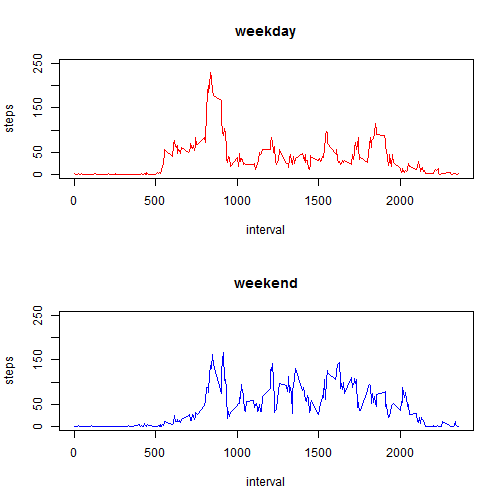
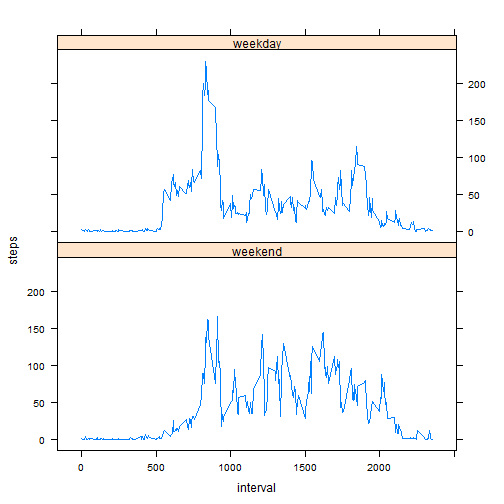
update RMD file

diff --git a/PA1_template.html b/PA1_template.html
@@ -256,7 +256,7 @@ hljs.initHighlightingOnLoad();
 <li>Calculate and report the total number of missing values in the dataset (i.e. the total number of rows with NAs)</li>
 </ul>
 
-<pre><code class="r">                sum(is.na(activity$steps)) 
+<pre><code class="r">        sum(is.na(activity$steps)) 
 </code></pre>
 
 <pre><code>## [1] 2304
@@ -341,24 +341,23 @@ This represents a 15% increase of total daily steps.</li>
         if ((isWeekDay[i]==&quot;Saturday&quot;)|(isWeekDay[i]==&quot;Sunday&quot;))
                 activity$weekday[i]&lt;-&quot;weekend&quot;
                 else activity$weekday[i]&lt;-&quot;weekday&quot;}
-        activity$weekday&lt;-as.factor(activity$weekday)
+        activity$weekday&lt;-factor(activity$weekday)
 </code></pre>
 
 <ul>
 <li>Make a panel plot containing a time series plot (i.e. type = &ldquo;l&rdquo;) of the 5-minute interval (x-axis) and the average number of steps taken, averaged across all weekday days or weekend days (y-axis). </li>
 </ul>
 
-<pre><code class="r">        intervalSteps2&lt;-tapply(activity$steps,list(activity$interval,activity$weekday),mean)
-        par(mfcol=c(2,1))
-        plot(as.numeric(names(intervalSteps)),intervalSteps2[,1],
-             type=&quot;l&quot;,xlab=&quot;interval&quot;,ylab=&quot;steps&quot;,main=&quot;weekday&quot;,
-             col=&quot;red&quot;,ylim=c(1,250))
-        plot(as.numeric(names(intervalSteps)),intervalSteps2[,2],
-             type=&quot;l&quot;, xlab=&quot;interval&quot;,ylab=&quot;steps&quot;,main=&quot;weekend&quot;,
-             col=&quot;blue&quot;,ylim=c(1,250))
+<pre><code class="r">        library(reshape2);library(lattice)
+        activityMelt&lt;-melt(activity,id.vars=c(&quot;interval&quot;,&quot;weekday&quot;),
+                           measure.vars=c(&quot;steps&quot;))
+        activityDcast&lt;-dcast(activityMelt,interval+weekday~variable,mean)
+        activityDcast$weekday&lt;-relevel(activityDcast$weekday,&quot;weekend&quot;)
+        with(activityDcast,
+             xyplot(steps~interval|weekday,layout=c(1,2),type=&quot;l&quot;))
 </code></pre>
 
[2 lines of base64/hex data omitted]
 
 <p><strong>yes, there is difference in activity patterns between weekdays and weekends. Activity is much less during the weekend morning and more during afternoon.</strong></p>
 

diff --git a/PA1_template.md b/PA1_template.md
@@ -73,7 +73,7 @@
 - Calculate and report the total number of missing values in the dataset (i.e. the total number of rows with NAs)
 
 ```r
-                sum(is.na(activity$steps)) 
+        sum(is.na(activity$steps)) 
 ```
 
 ```
@@ -162,21 +162,20 @@ This represents a 15% increase of total daily steps.
         if ((isWeekDay[i]=="Saturday")|(isWeekDay[i]=="Sunday"))
                 activity$weekday[i]<-"weekend"
                 else activity$weekday[i]<-"weekday"}
-        activity$weekday<-as.factor(activity$weekday)
+        activity$weekday<-factor(activity$weekday)
 ```
 
 - Make a panel plot containing a time series plot (i.e. type = "l") of the 5-minute interval (x-axis) and the average number of steps taken, averaged across all weekday days or weekend days (y-axis). 
         
 
 ```r
-        intervalSteps2<-tapply(activity$steps,list(activity$interval,activity$weekday),mean)
-        par(mfcol=c(2,1))
-        plot(as.numeric(names(intervalSteps)),intervalSteps2[,1],
-             type="l",xlab="interval",ylab="steps",main="weekday",
-             col="red",ylim=c(1,250))
-        plot(as.numeric(names(intervalSteps)),intervalSteps2[,2],
-             type="l", xlab="interval",ylab="steps",main="weekend",
-             col="blue",ylim=c(1,250))
+        library(reshape2);library(lattice)
+        activityMelt<-melt(activity,id.vars=c("interval","weekday"),
+                           measure.vars=c("steps"))
+        activityDcast<-dcast(activityMelt,interval+weekday~variable,mean)
+        activityDcast$weekday<-relevel(activityDcast$weekday,"weekend")
+        with(activityDcast,
+             xyplot(steps~interval|weekday,layout=c(1,2),type="l"))
 ```
 
 ![plot of chunk DailyActivity2](figure/DailyActivity2.png) 
